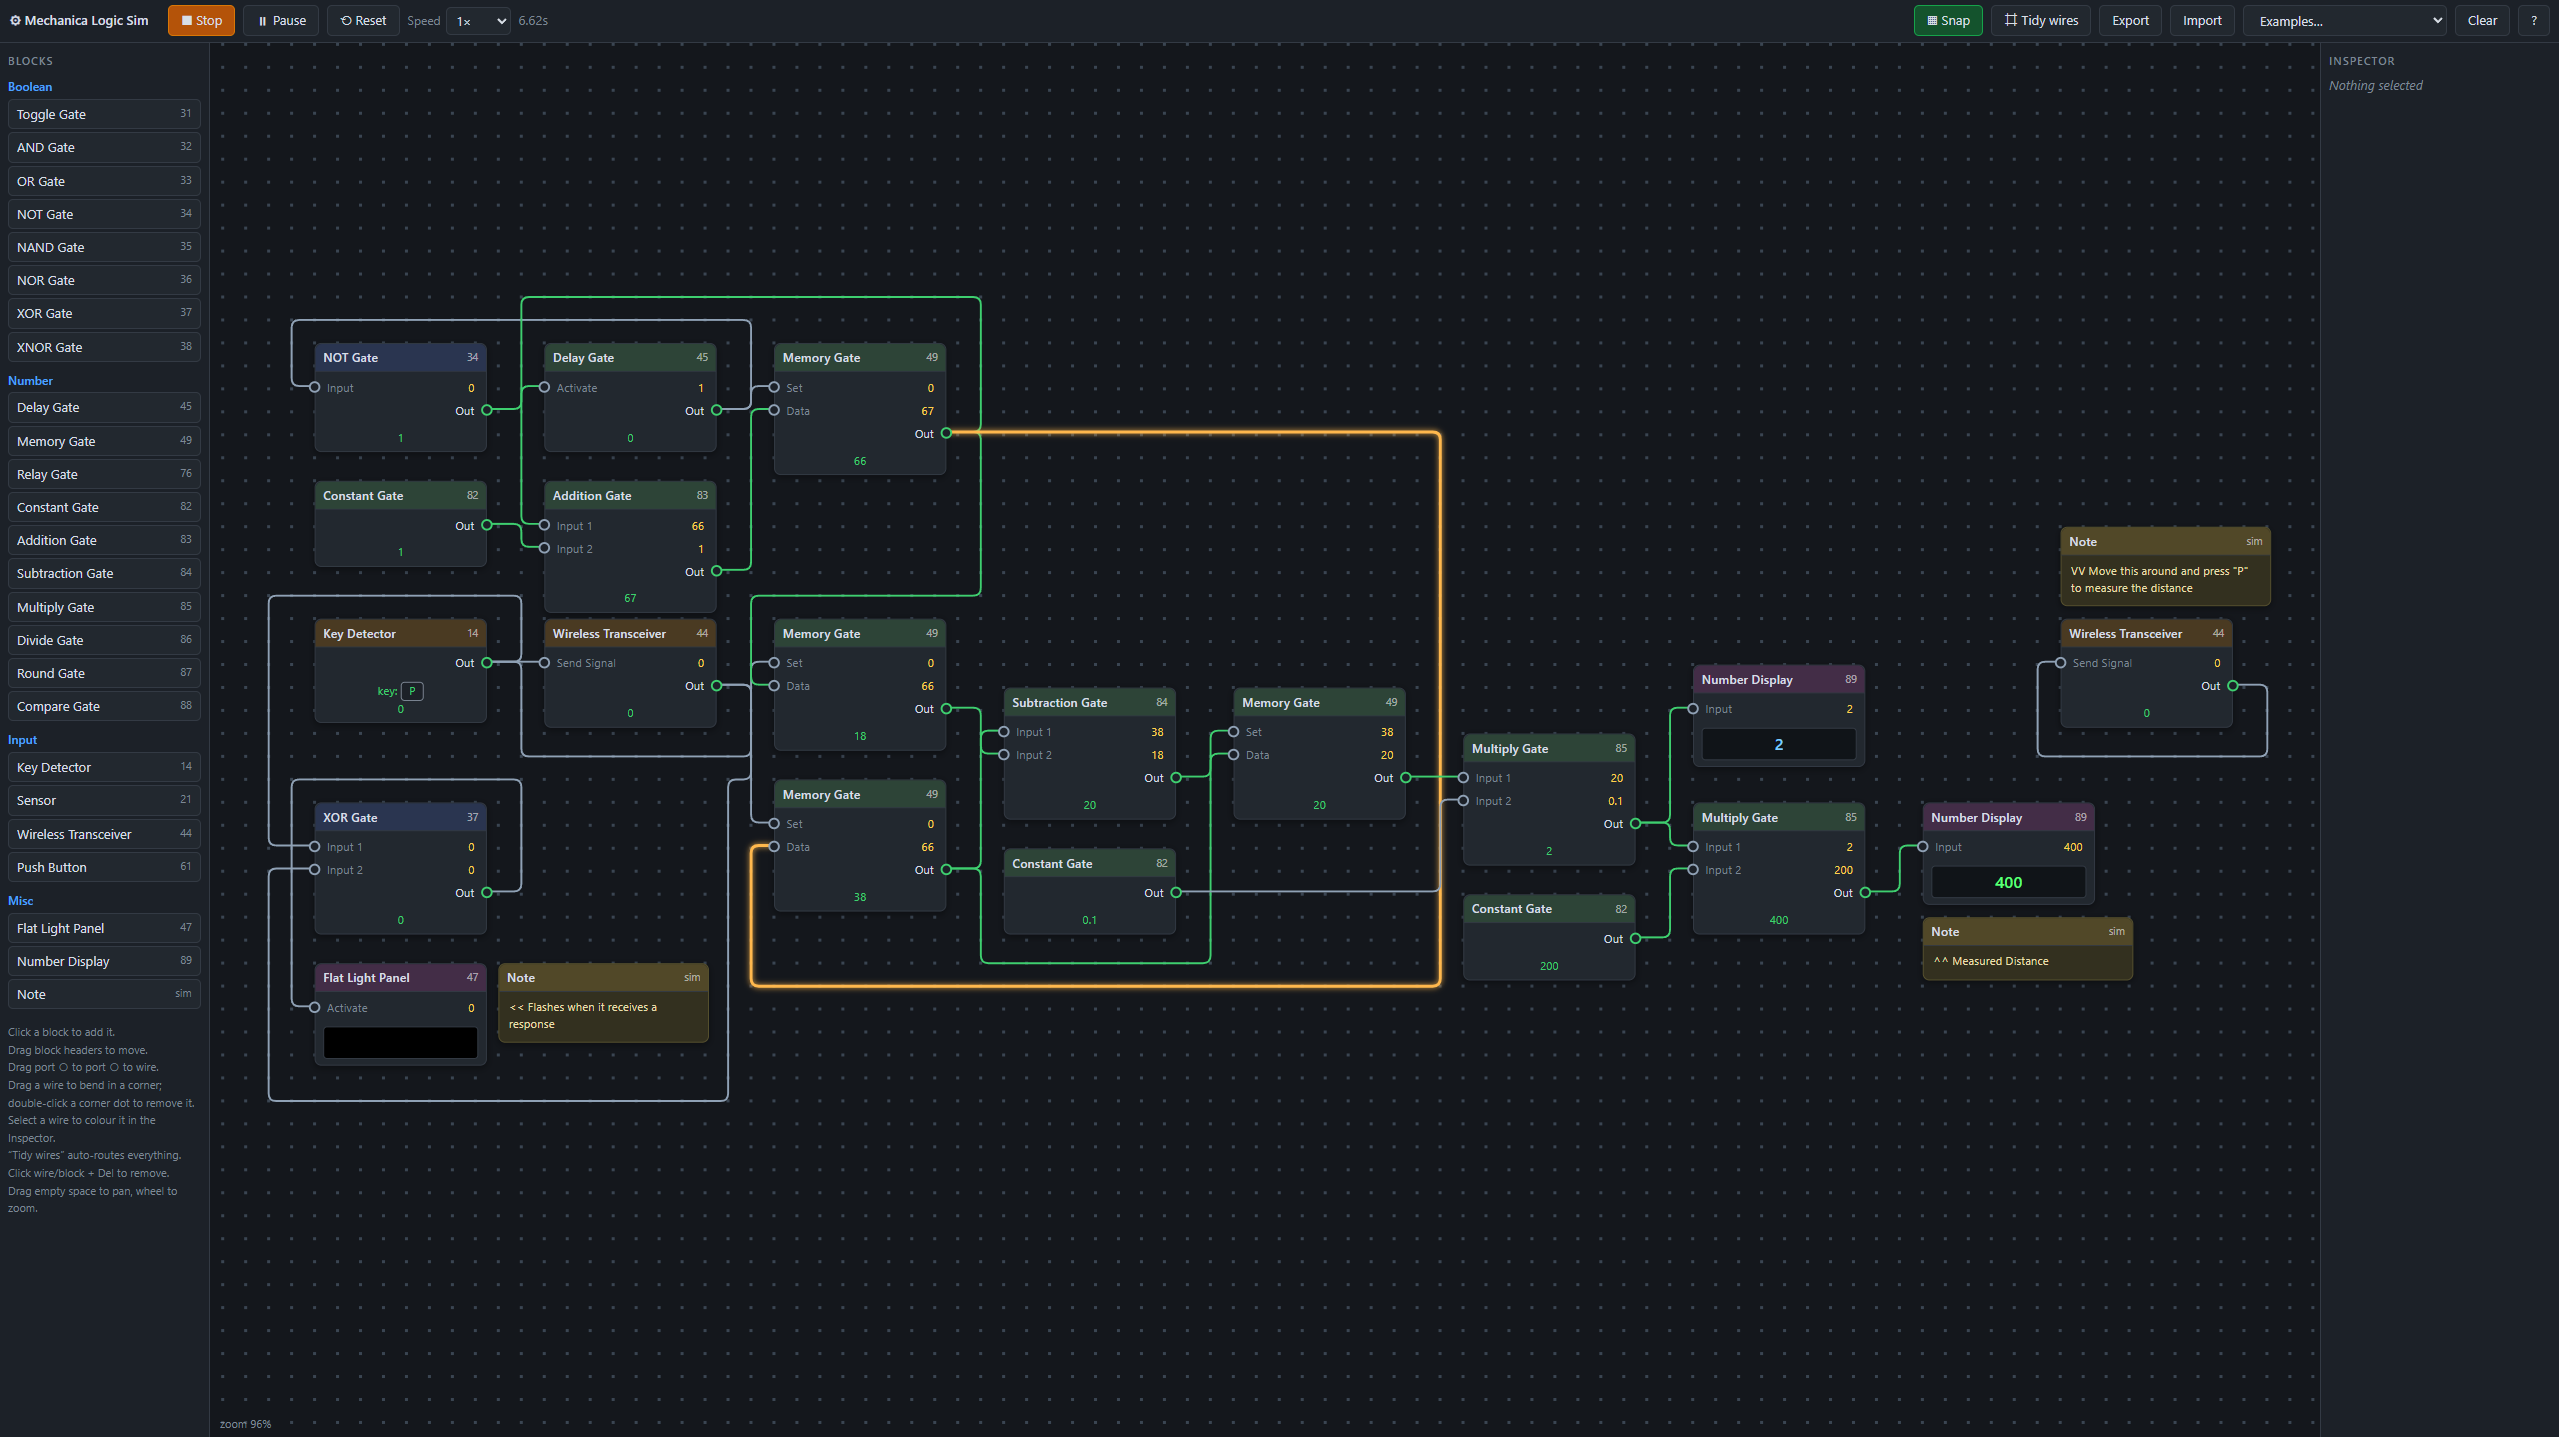
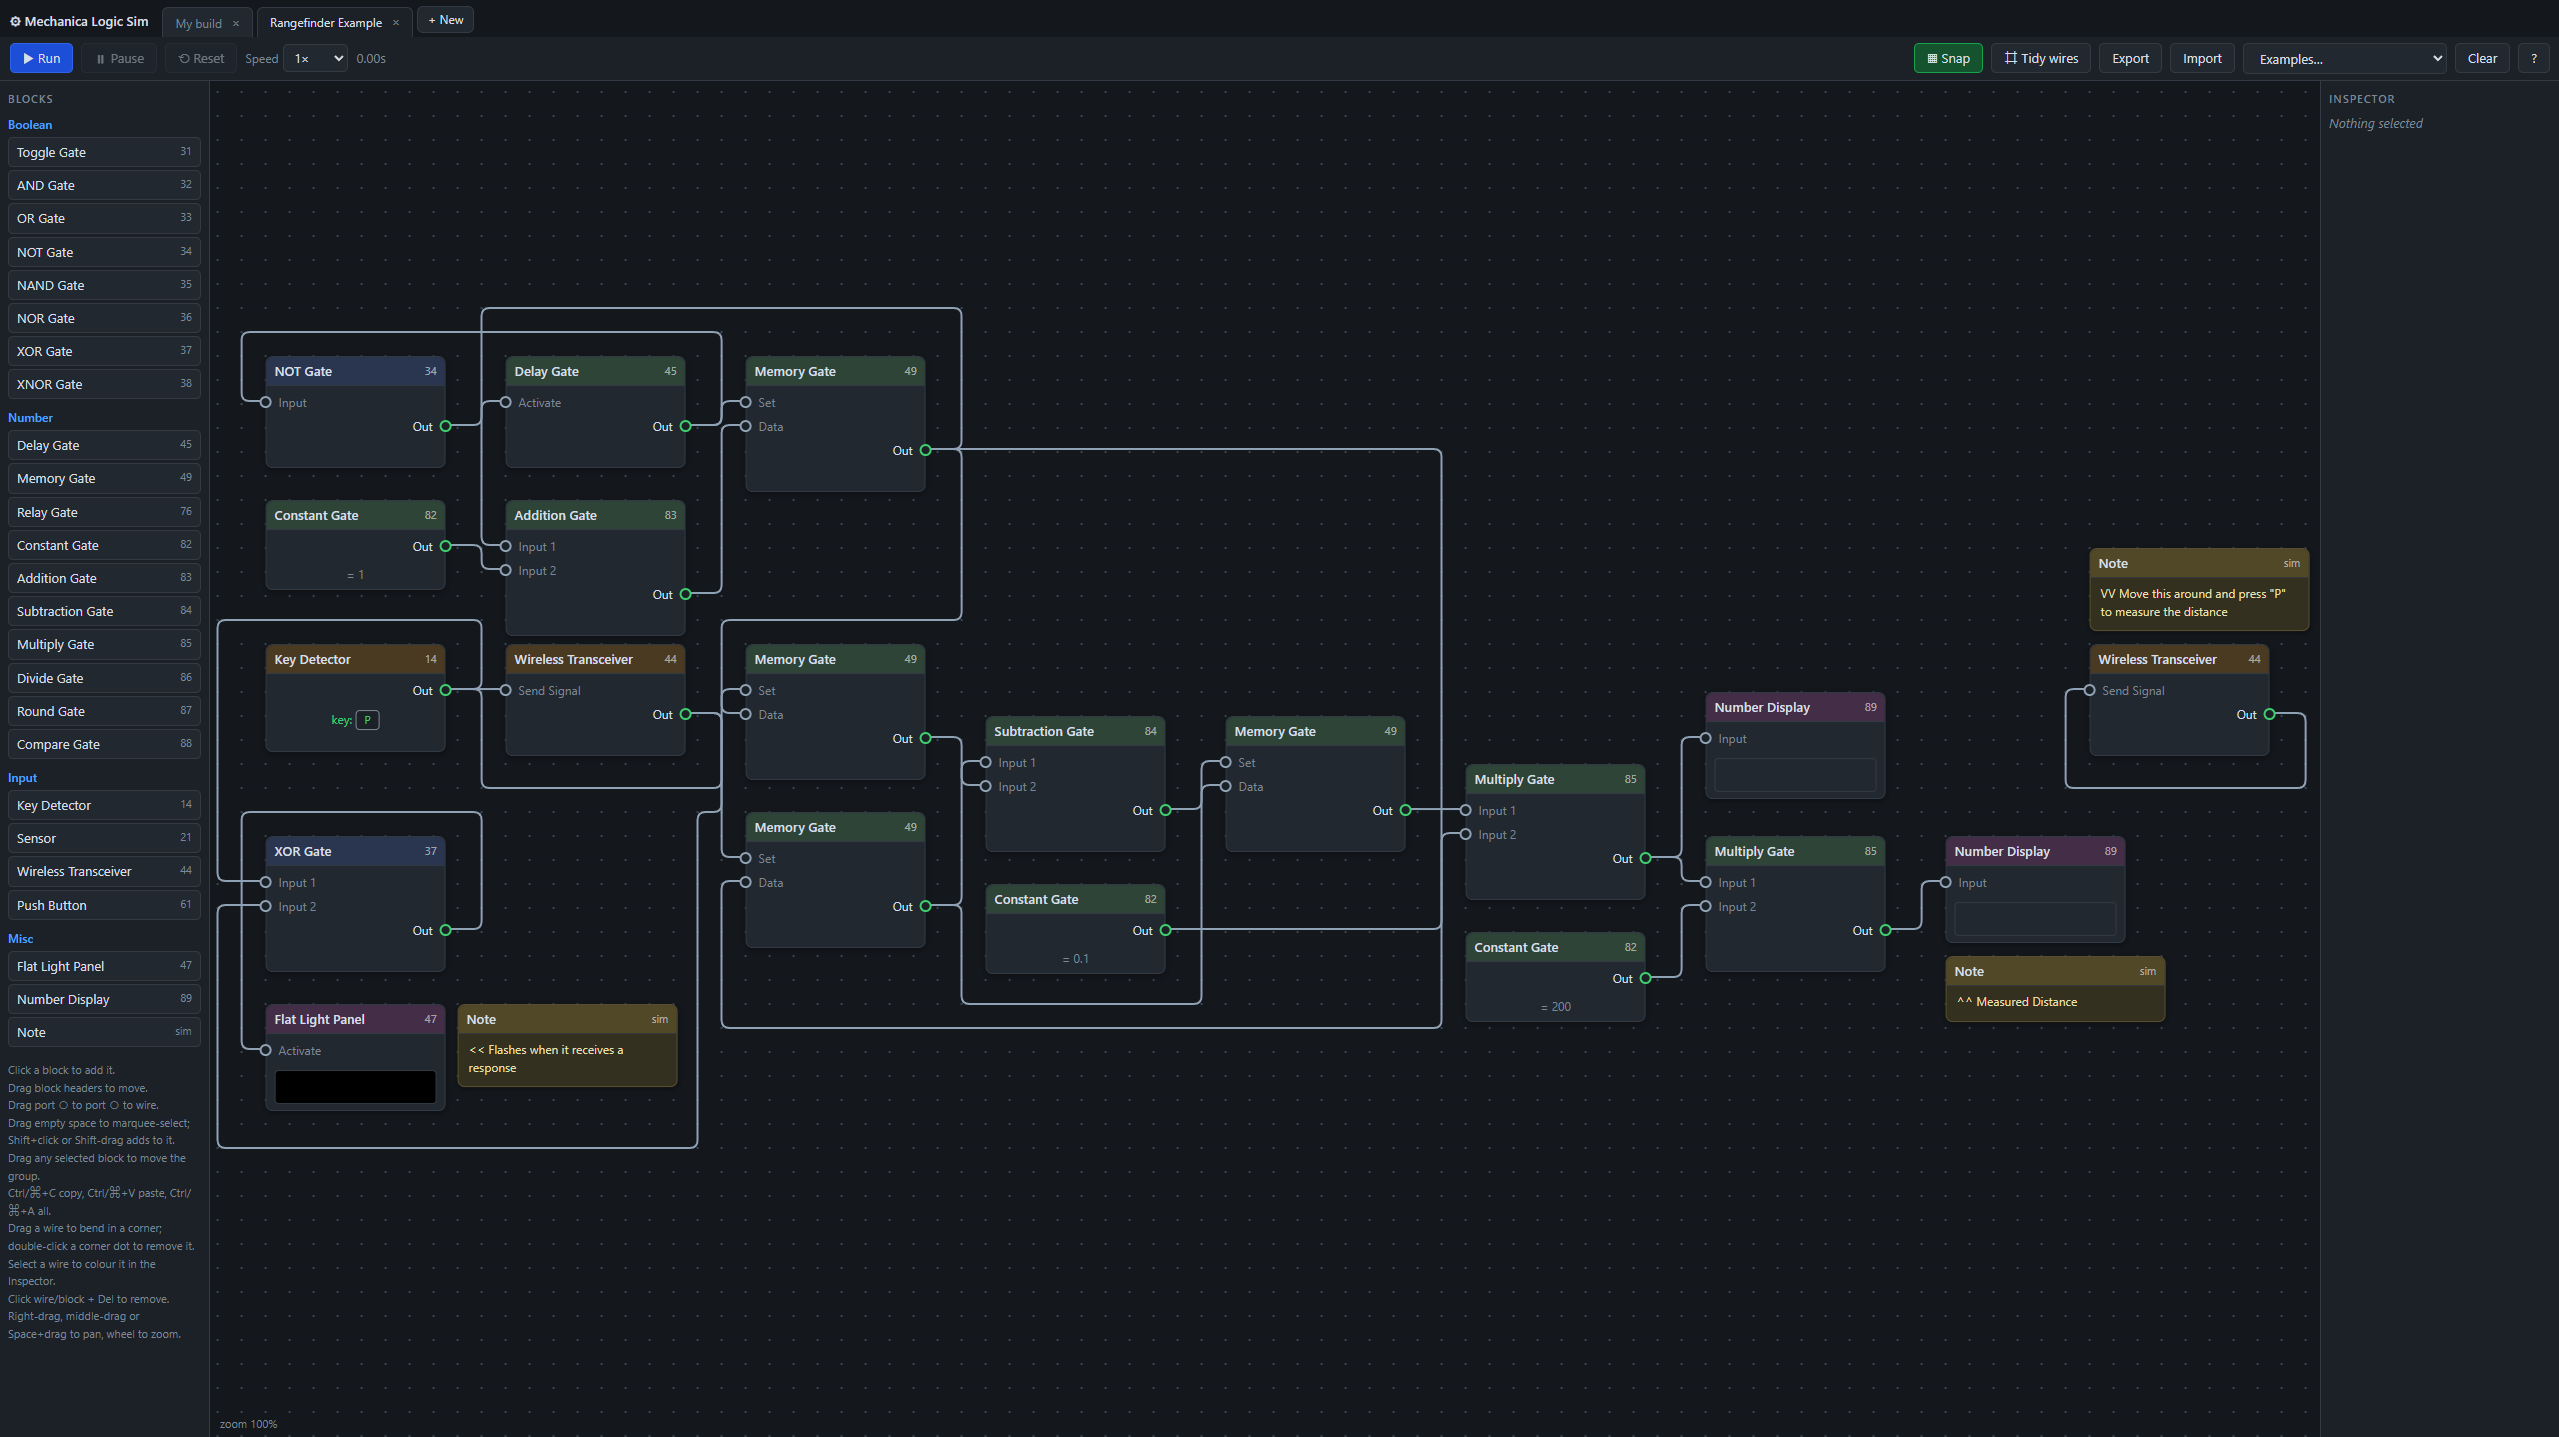
Updated README

Changed region(s): [[0.0, 0.0, 0.9261, 0.9186], [0.7409, 0.0, 1.0, 0.0919], [0.3396, 0.2756, 0.5557, 0.3368]]

diff --git a/README.md b/README.md
@@ -10,6 +10,9 @@ A web-based visual editor and simulator for designing and testing logic circuits
 ## Features
 
 - **Visual Circuit Editor** - Drag-and-drop interface for building logic circuits
+- **Tabbed Workspaces** - Keep multiple builds open at once in named tabs; rename them like files (double-click), close them, and each tab autosaves to your browser — including its pan/zoom position
+- **Multi-Select & Group Editing** - Rubber-band drag to select many blocks (Shift to add), or Shift/Ctrl-click to toggle individual blocks. Drag any selected block to move the whole group together, keeping wire layouts relative to their blocks
+- **Copy & Paste** - Copy, cut, and paste blocks (Ctrl/⌘+C / X / V) with their internal wiring preserved. The clipboard is shared across tabs, so you can paste a selection into any other tab
 - **Real-time Simulation** - Test your circuits with adjustable simulation speed (0.25× to 10×)
 - **Complete Block Library** - All Mechanica logic blocks including:
   - Boolean logic gates (AND, OR, NOT, NAND, NOR, XOR, XNOR)
@@ -17,8 +20,11 @@ A web-based visual editor and simulator for designing and testing logic circuits
   - Memory and delay gates
   - Input blocks (Key Detector, Sensor, Push Button, Wireless Transceiver)
   - Output blocks (Flat Light Panel, Number Display)
-- **Smart Wire Routing** - Auto-tidy feature to organize wire layouts
+  - Sticky **Note** blocks for documenting builds (simulator-only)
+- **Smart Wire Routing** - Auto-tidy feature to organize wire layouts, plus draggable wire corners
+- **Wire Colours** - Colour-code any wire; coloured wires glow in their own colour when carrying a True value
 - **Grid Snapping** - Optional snap-to-grid for precise block placement
+- **Flexible Panning** - Pan with right-drag, middle-drag, or Space + drag; scroll to zoom
 - **Import/Export** - Save and load your circuit designs
 - **Example Circuits** - Pre-built examples to learn from:
   - Key → Toggle → Light
@@ -45,9 +51,21 @@ No build process or dependencies required - it's a pure JavaScript application.
 2. **Move Blocks** - Drag block headers to reposition them
 3. **Connect Blocks** - Drag from one port (⭘) to another to create wires
 4. **Wire Corners** - Drag a wire segment to create corner points; double-click corner dots to remove them
-5. **Configure Blocks** - Select a block and use the Inspector panel on the right to adjust properties
+5. **Configure Blocks** - Select a block and use the Inspector panel on the right to adjust properties (it also shows the block's canvas position, live while you drag)
 6. **Run Simulation** - Click "▶ Run" to start simulating your circuit
-7. **Navigate** - Drag empty space to pan, use mouse wheel to zoom
+7. **Navigate** - Right-drag, middle-drag, or hold Space and drag to pan; use the mouse wheel to zoom
+
+### Working with Multiple Blocks
+
+- **Select many** - Drag across empty canvas to rubber-band select every block the box touches. Hold **Shift** while dragging to add to the current selection, or **Shift/Ctrl-click** a block to toggle it. **Ctrl/⌘+A** selects everything
+- **Move a group** - Drag any selected block and the whole selection moves together, keeping each block's spacing. Wires between two selected blocks keep their corners in place relative to the blocks
+- **Copy & paste** - **Ctrl/⌘+C** copies the selection, **Ctrl/⌘+V** pastes it (offset so it doesn't cover the originals), and **Ctrl/⌘+X** cuts. Wires between copied blocks are preserved; wires to blocks that weren't copied are dropped. The clipboard is shared across tabs
+
+### Tabs
+
+- Each tab is a separate build. Click **+ New** for a blank one, or click a tab to switch to it
+- **Double-click a tab** to rename it (Enter confirms, Esc cancels); the **×** closes it (you're asked first if it isn't empty)
+- Every tab autosaves to your browser — its blocks, wires, and pan/zoom are restored when you return. Import, Export, and Clear act on the current tab
 
 ### Controls
 
@@ -56,8 +74,9 @@ No build process or dependencies required - it's a pure JavaScript application.
 - **Snap** - Toggle grid snapping for blocks and wires
 - **Tidy Wires** - Automatically route all wires neatly
 - **Export/Import** - Save and load circuit designs as JSON
-- **Clear** - Remove all blocks and wires from the canvas
-- **Delete** - Select a block or wire and press Delete/Backspace to remove it
+- **Clear** - Remove all blocks and wires from the current tab
+- **Delete** - Select a block or wire and press Delete/Backspace to remove it (clears the whole selection at once)
+- **Wire colour** - Select a wire and pick a colour in the Inspector
 
 ## How It Works
 
@@ -83,7 +102,8 @@ mechanica-logic-sim/
 │   ├── engine.js           # Simulation engine
 │   ├── editor.js           # Visual editor and interaction
 │   ├── route.js            # Wire routing algorithms
-│   ├── app.js              # Application initialization
+│   ├── clipboard.js        # Portable copy/paste clipboard (shared across tabs)
+│   ├── app.js              # Application initialization, tabs, and workspace
 │   └── build_examples.js   # Pre-built example circuits
 ├── imgs/
 │   └── preview.png         # Preview image